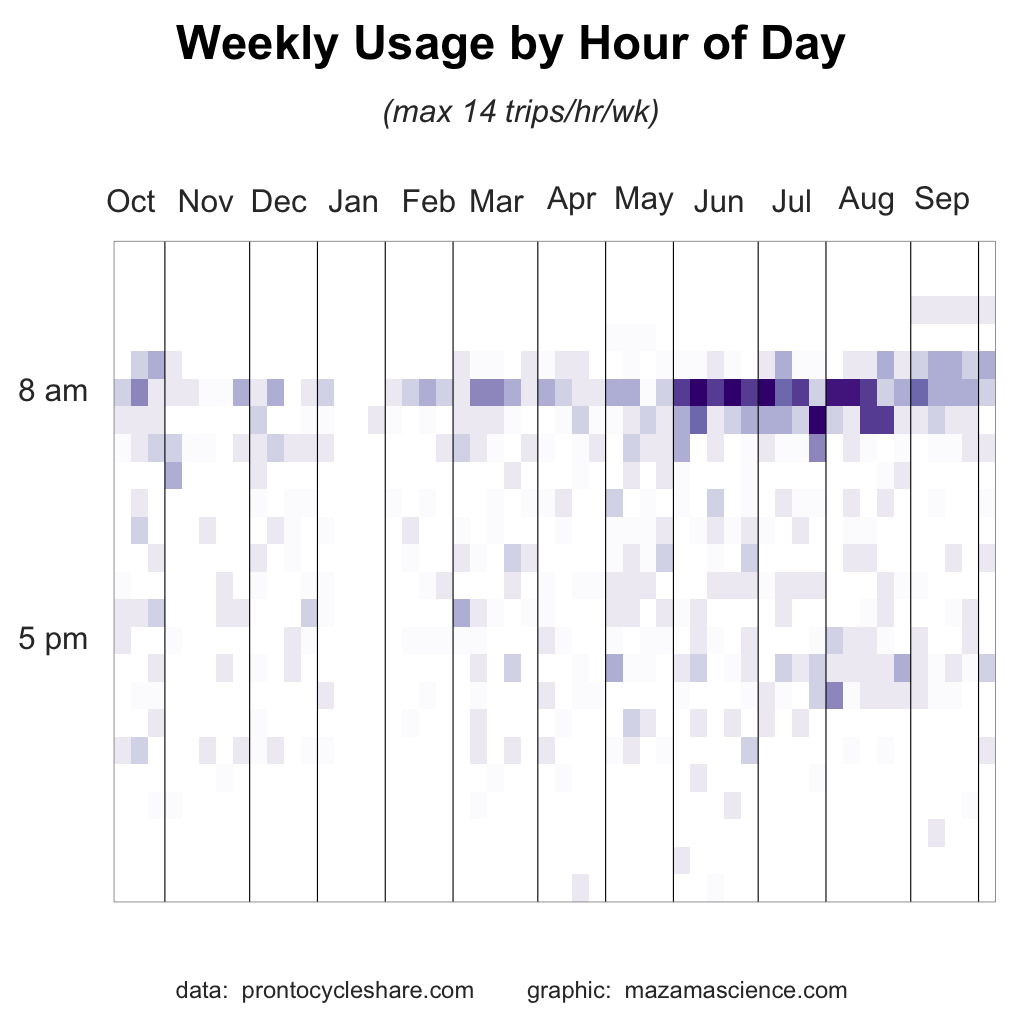
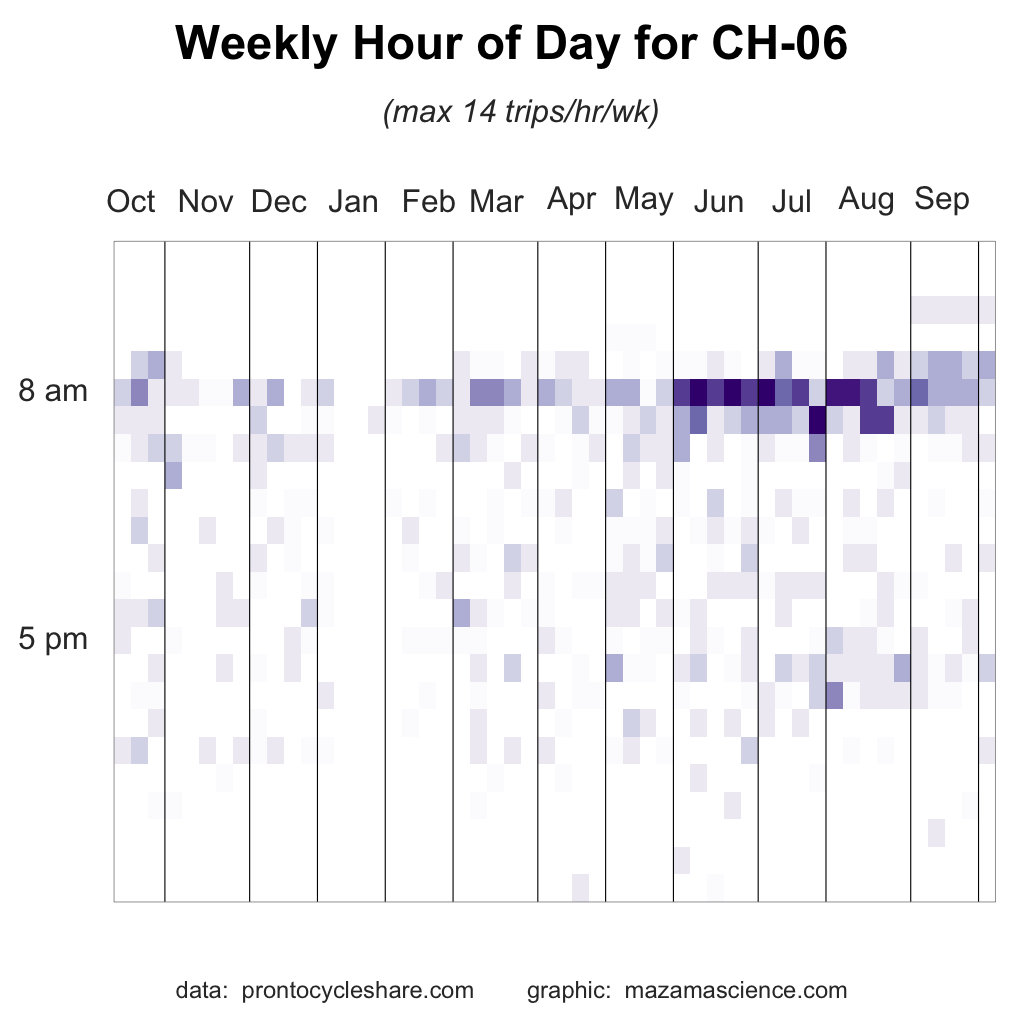
Adding stationId to title.

Changed region(s): [[0.1562, 0.0, 0.8438, 0.0625]]

diff --git a/Databrowser/UI/html/views/dataStories.html b/Databrowser/UI/html/views/dataStories.html
@@ -142,10 +142,6 @@ a closer analysis of how and by whom this particular station is used.
         </div>
 
         <p>
-<i>(The chart above is for Pier 69 only. It could use better labeling!)</i>
-        </p>
-
-        <p>
 The vast majority of trips from the Pier 69 Station are made by short-term users,
 presumably tourists. In the density graph below, where a darker purple 
 indicates a higher number of trips, we can see that trips from Pier 69 are highly 
